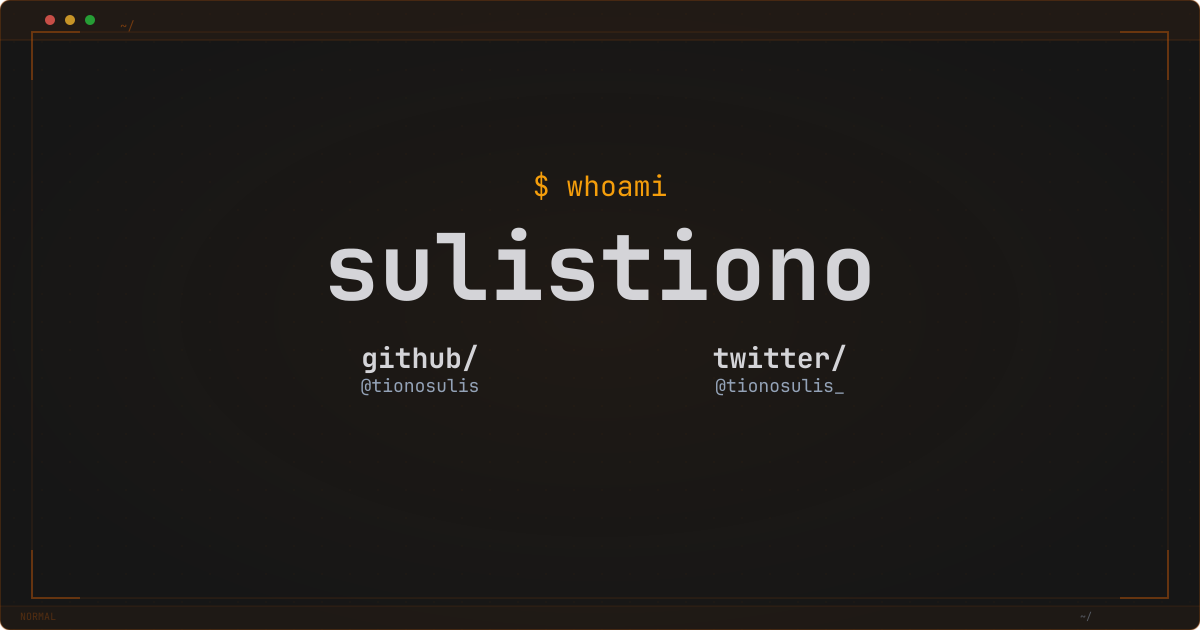
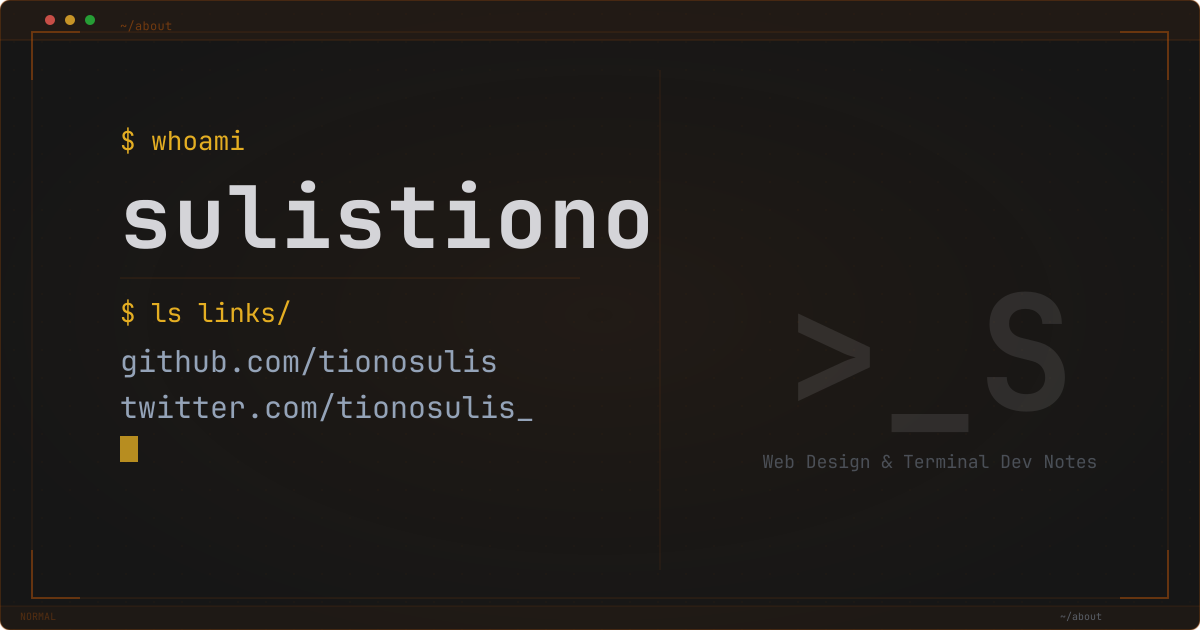
Implement new OG images and fallback configuration
- Replace homepage and about OG images with new SVG designs
- Update about page alt text to reflect new content
- Set homepage OG image as fallback for posts without hero images
- Add hardcoded fallback in base.njk template logic
- Update _data/metadata.js image field to new homepage OG path

Changes:
- SVG→PNG conversion for home.svg and about.svg
- Updated image_alt for homepage and about pages
- Implemented fallback: posts without hero images use homepage OG
- All OG image metadata correctly configured

diff --git a/_data/metadata.js b/_data/metadata.js
@@ -3,7 +3,7 @@ export default {
   url: "https://tionosulis.github.io",
   language: "en",
   description: "Sulistiono's thoughts",
-  image: "/assets/img/favicon/android-chrome-192x192.png",
+  image: "/assets/img/og/home.png",
   verification: {
     google: "nGUHc-P1KrLWgaQSmLNdIFM-c0dIvVcOFCXaJGU5-K0",
   },

diff --git a/content/about/index.md b/content/about/index.md
@@ -1,11 +1,11 @@
 ---
 layout: layouts/page.njk
 title: ./sulistiono
-description: >-
-  Sulistiono — web developer and blogger. Vanilla CSS, static sites, writes about
-  frontend. Ships mainly from a phone via SSH and sheer stubbornness.
-image: /assets/img/og/about.png
-image_alt: "Terminal OG card with amber accents, '$ whoami' prompt with bold 'sulistiono', and supporting github and Twitter links on dark dot-grid background"
+  description: >-
+    Sulistiono — web developer and blogger. Vanilla CSS, static sites, writes about
+    frontend. Ships mainly from a phone via SSH and sheer stubbornness.
+  image: /assets/img/og/about.png
+  image_alt: "Terminal OG card with \$ whoami and \$ ls links/ commands, sulistiono heading, GitHub and Twitter handles, and >_S ghost logo on dark dot-grid background"
 ---
 
 <div class="home-terminal">
